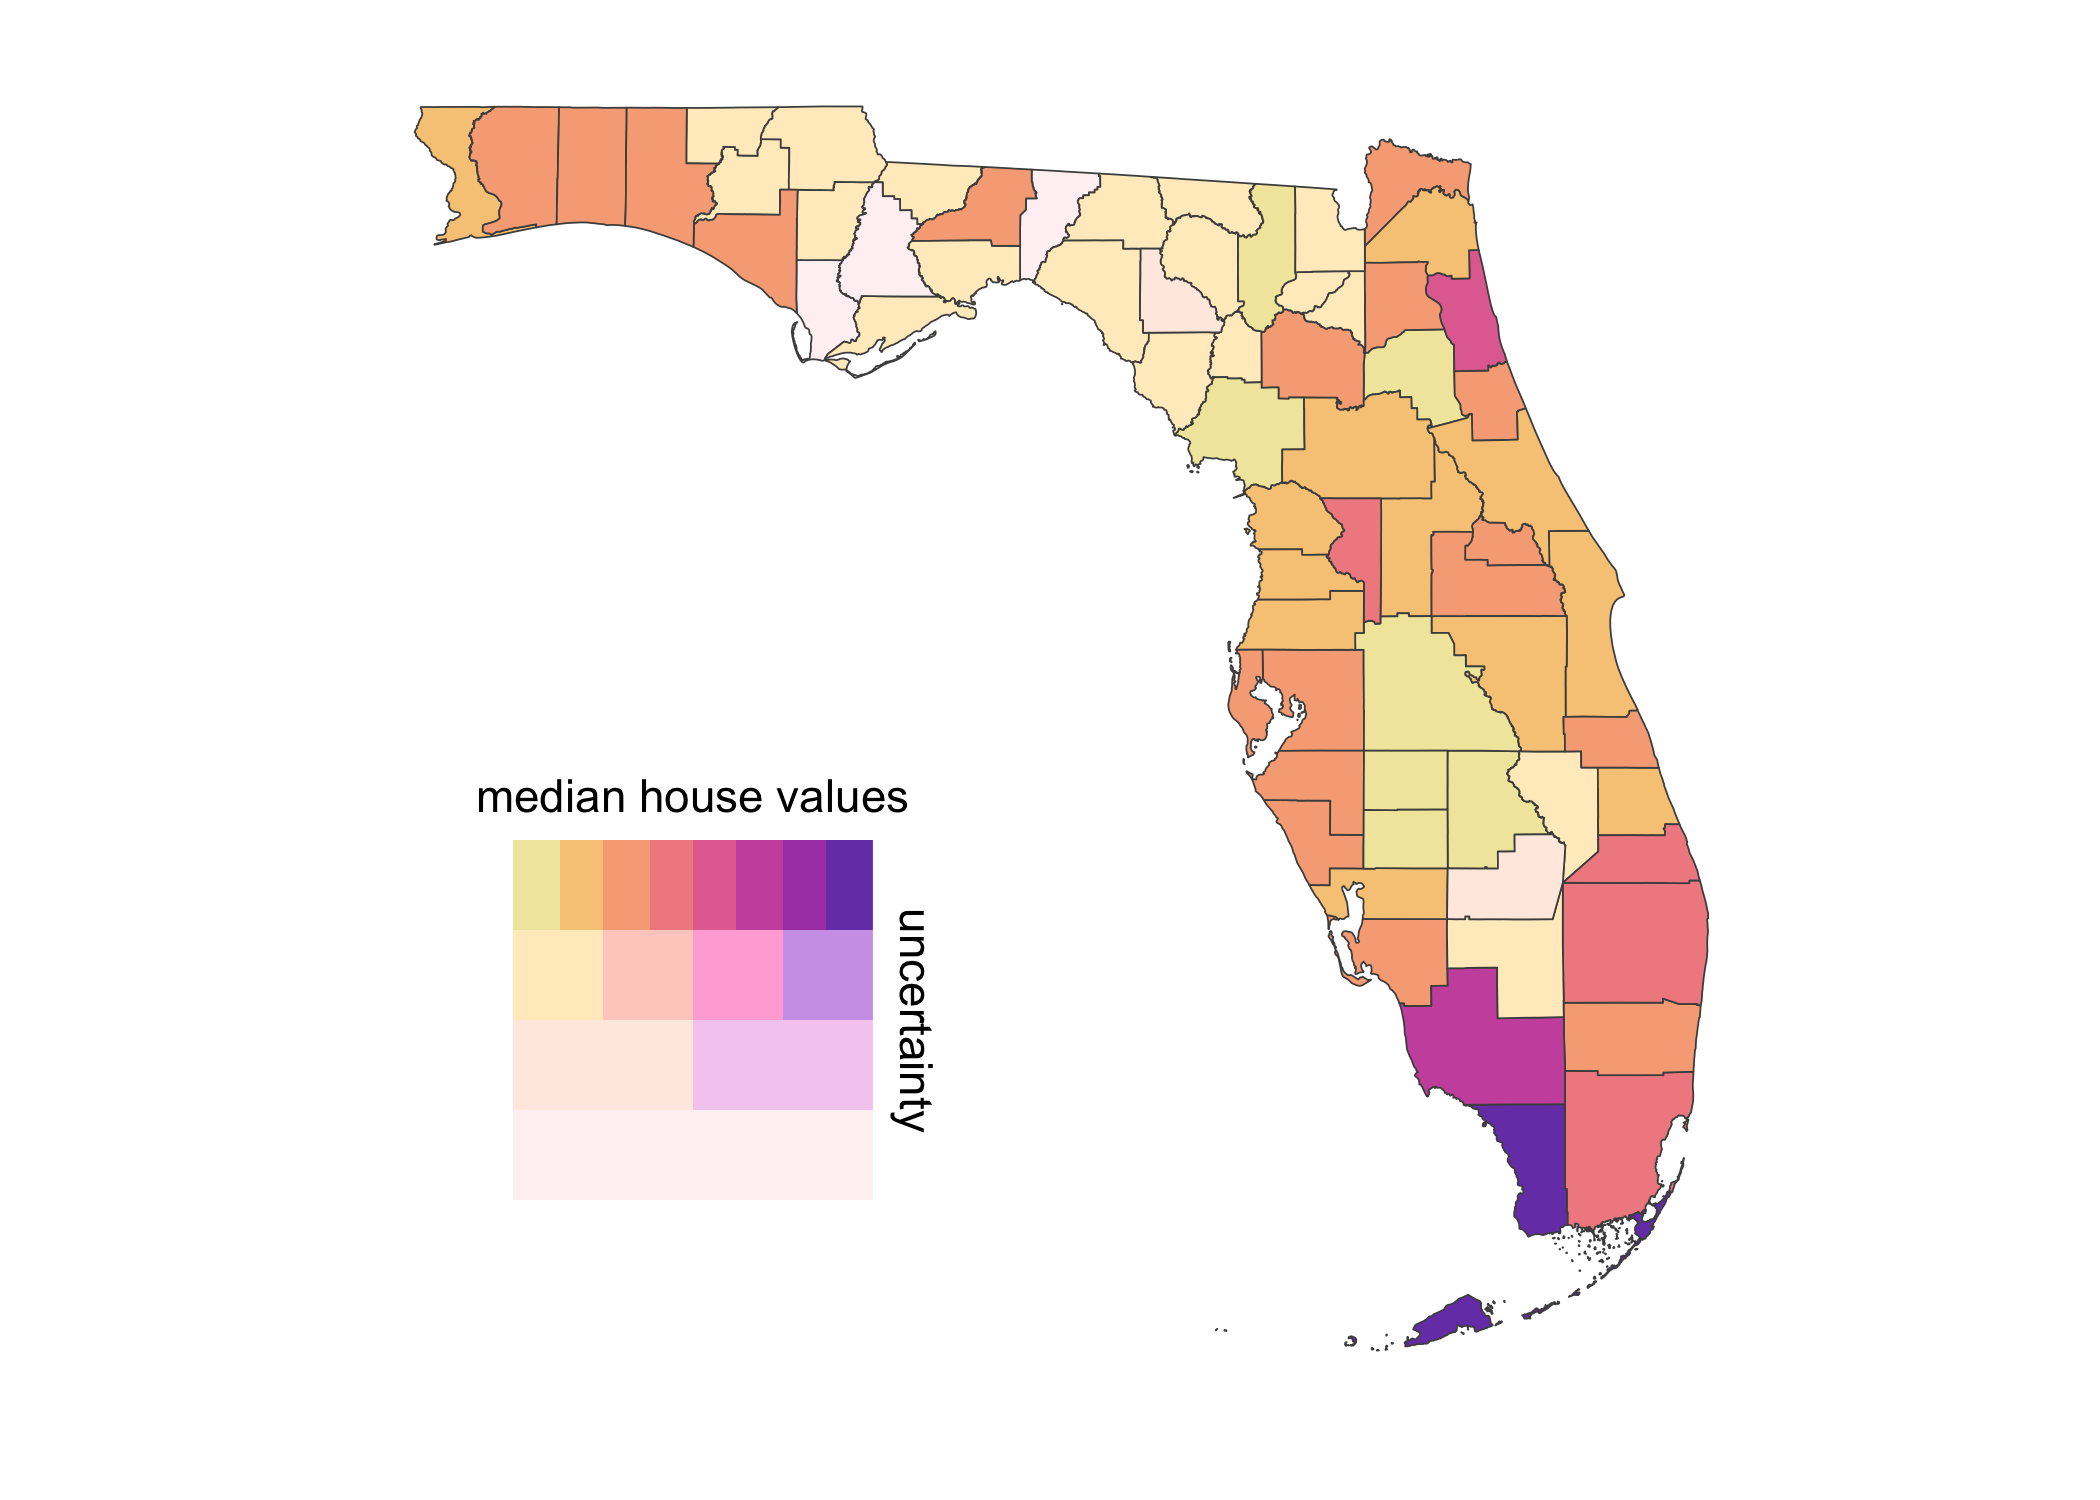
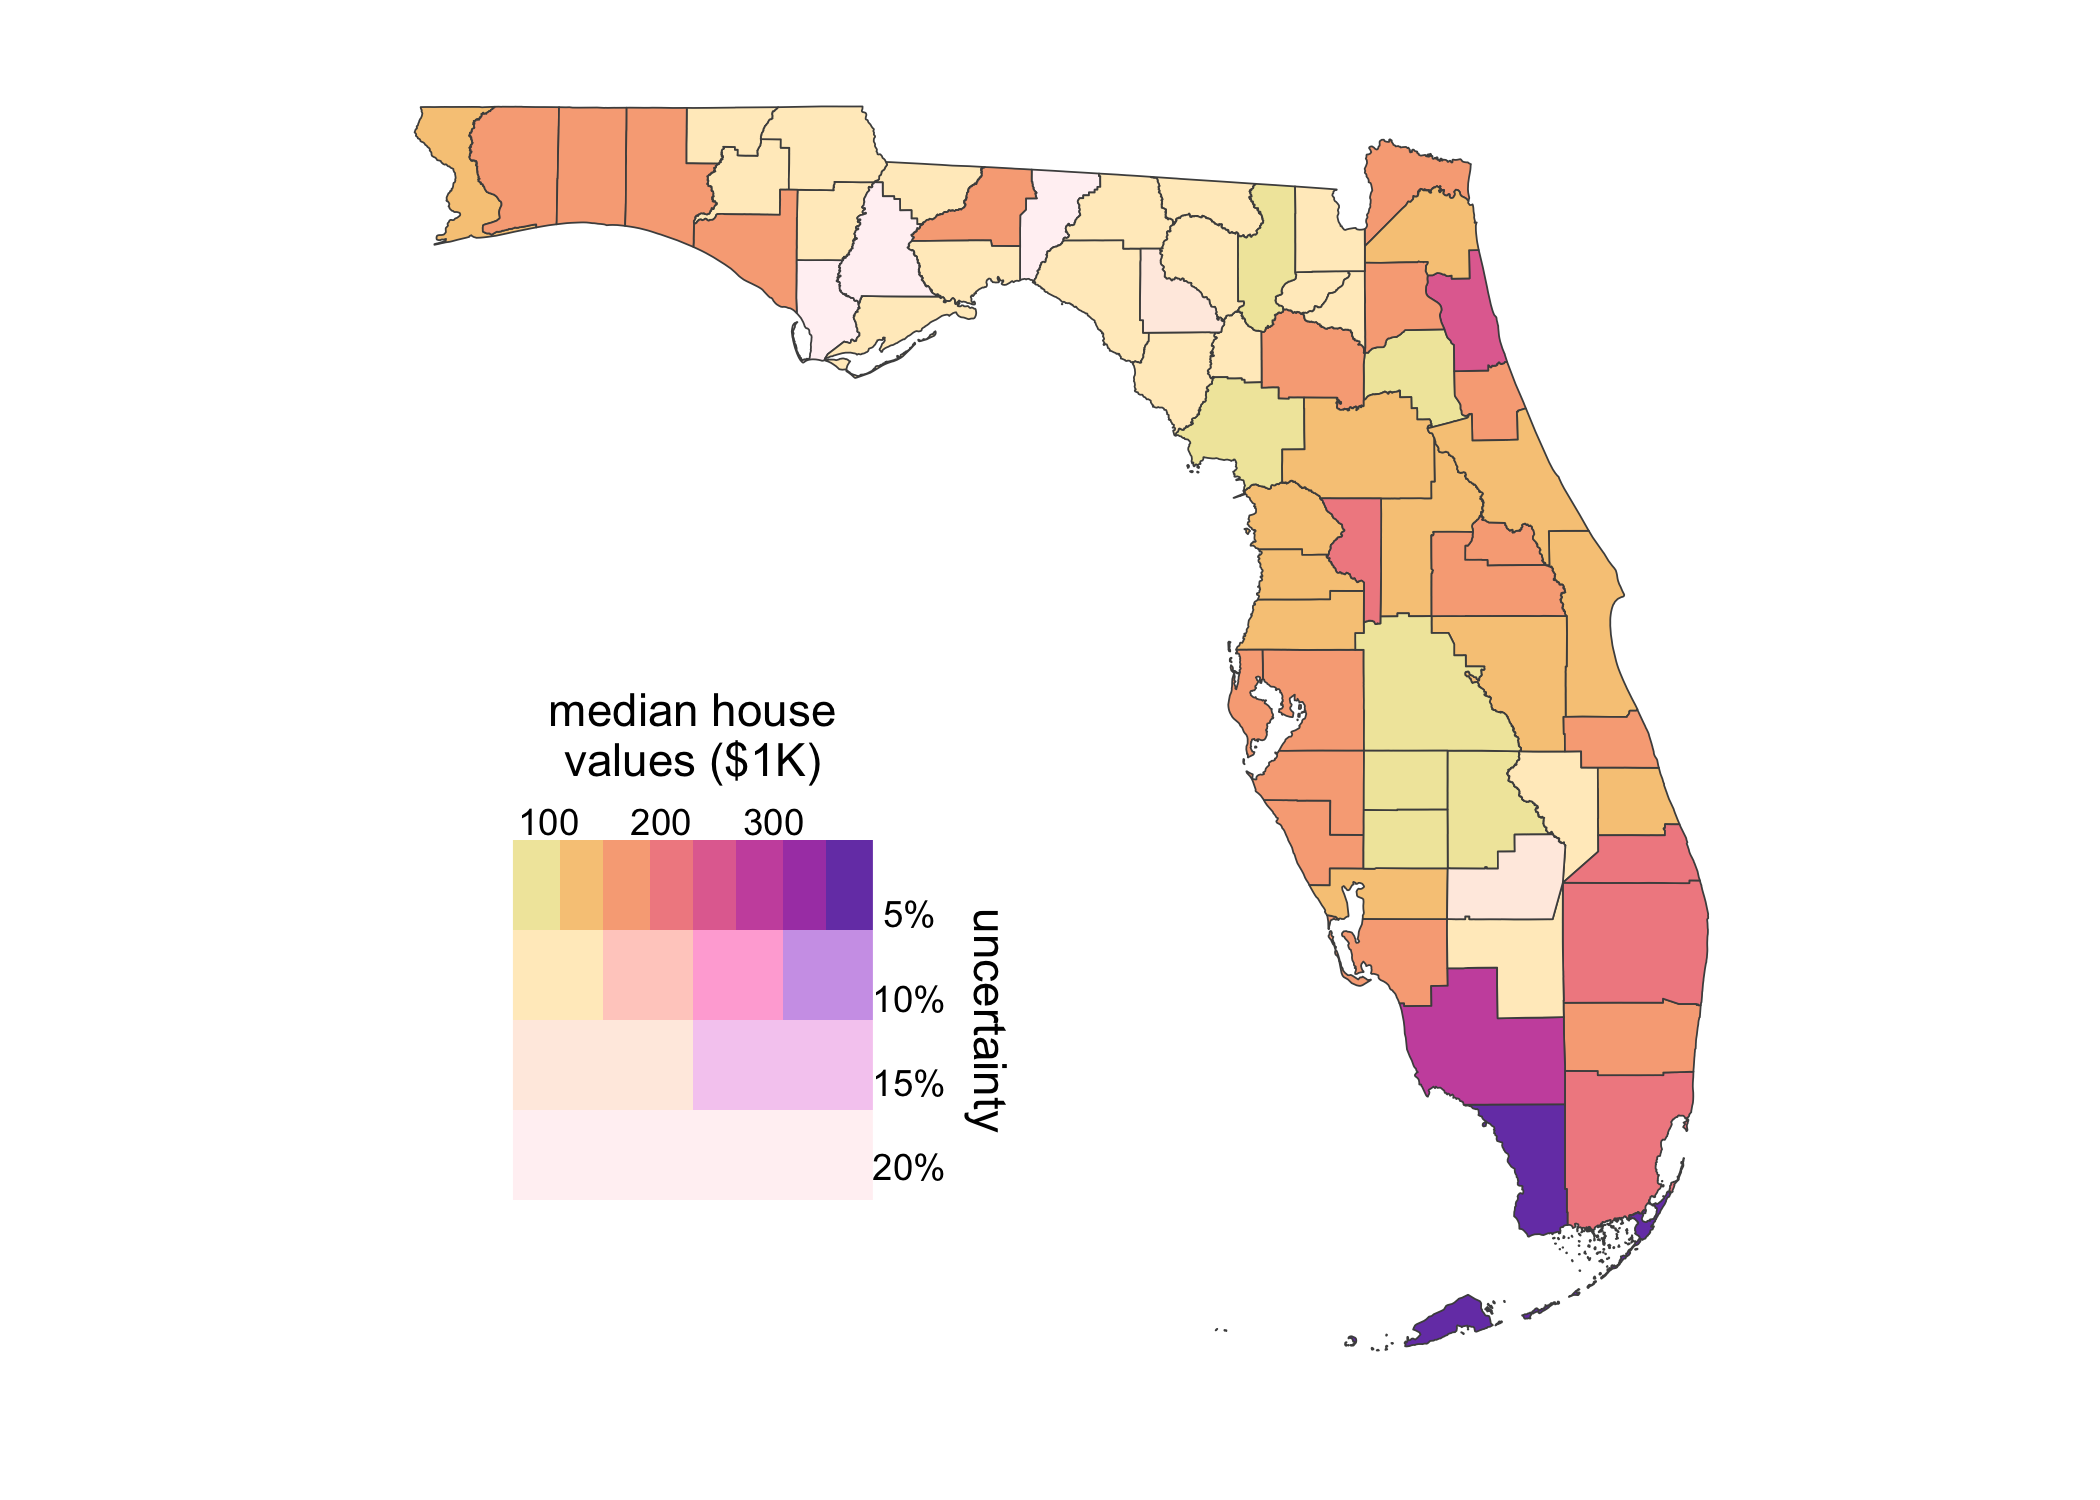
minimal tick labels implementation

Changed region(s): [[0.2167, 0.46, 0.4333, 0.552], [0.4024, 0.6133, 0.4952, 0.736], [0.4024, 0.7667, 0.4643, 0.7973]]

diff --git a/README.md b/README.md
@@ -27,13 +27,14 @@ library(ggplot2)
 library(multiscales)
 library(colorspace)
 
-ggplot(FL_house_values, aes(fill = zip(estimate, moe/estimate))) +
+ggplot(FL_house_values, aes(fill = zip(estimate/1000, moe/estimate))) +
   geom_sf(color = "gray30", size = 0.2) +
   coord_sf(xlim = c(-88, -79.8), ylim = c(24.1, 31.2), datum = NA) +
   bivariate_scale("fill",
     pal_carto_vsup(palette = "Sunset", rev = TRUE),
     guide = "colourbox",
-    name = c("median house values", "uncertainty")
+    labels = list(waiver(), scales::percent),
+    name = c("median house\nvalues ($1K)", "uncertainty")
   ) +
   theme_void() +
   theme(
@@ -49,12 +50,12 @@ ggplot(FL_house_values, aes(fill = zip(estimate, moe/estimate))) +
 For comparison, the same plot with a univariate color scale:
 
 ``` r
-ggplot(FL_house_values, aes(fill = estimate)) +
+ggplot(FL_house_values, aes(fill = estimate/1000)) +
   geom_sf(color = "gray30", size = 0.2) +
   coord_sf(xlim = c(-88, -79.8), ylim = c(24.1, 31.2), datum = NA) +
   scale_fill_continuous_carto(
     palette = "Sunset", rev = TRUE,
-    name = "median house values",
+    name = "median house values ($1K)",
     guide = guide_colorbar(
       direction = "horizontal",
       label.position = "bottom",
